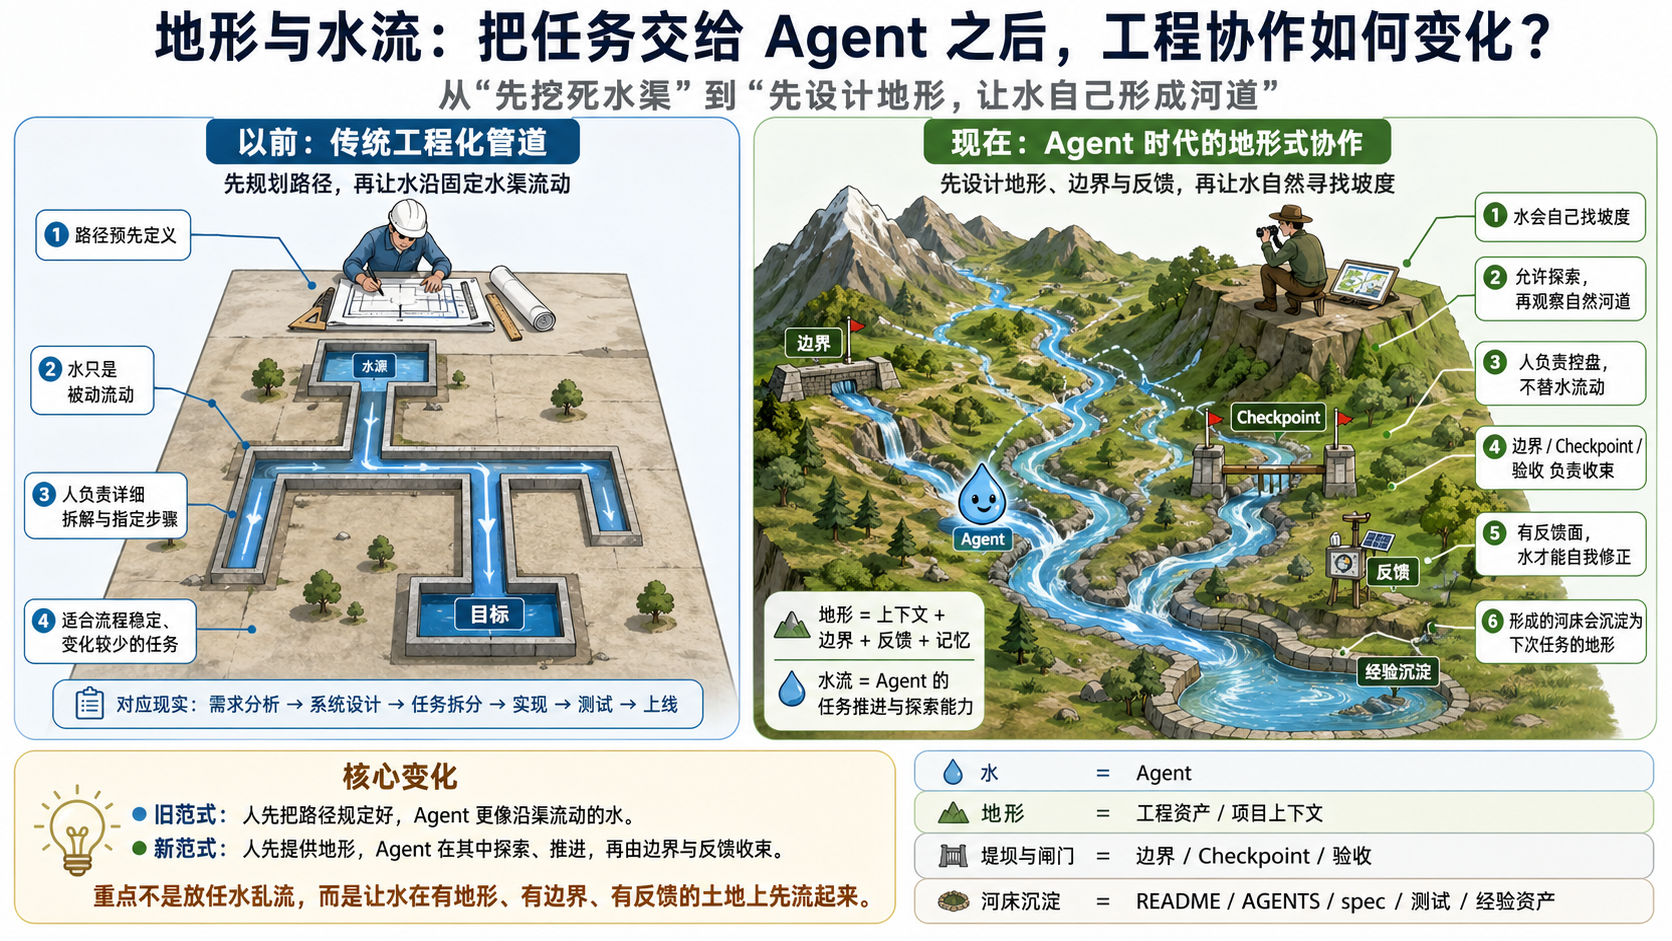
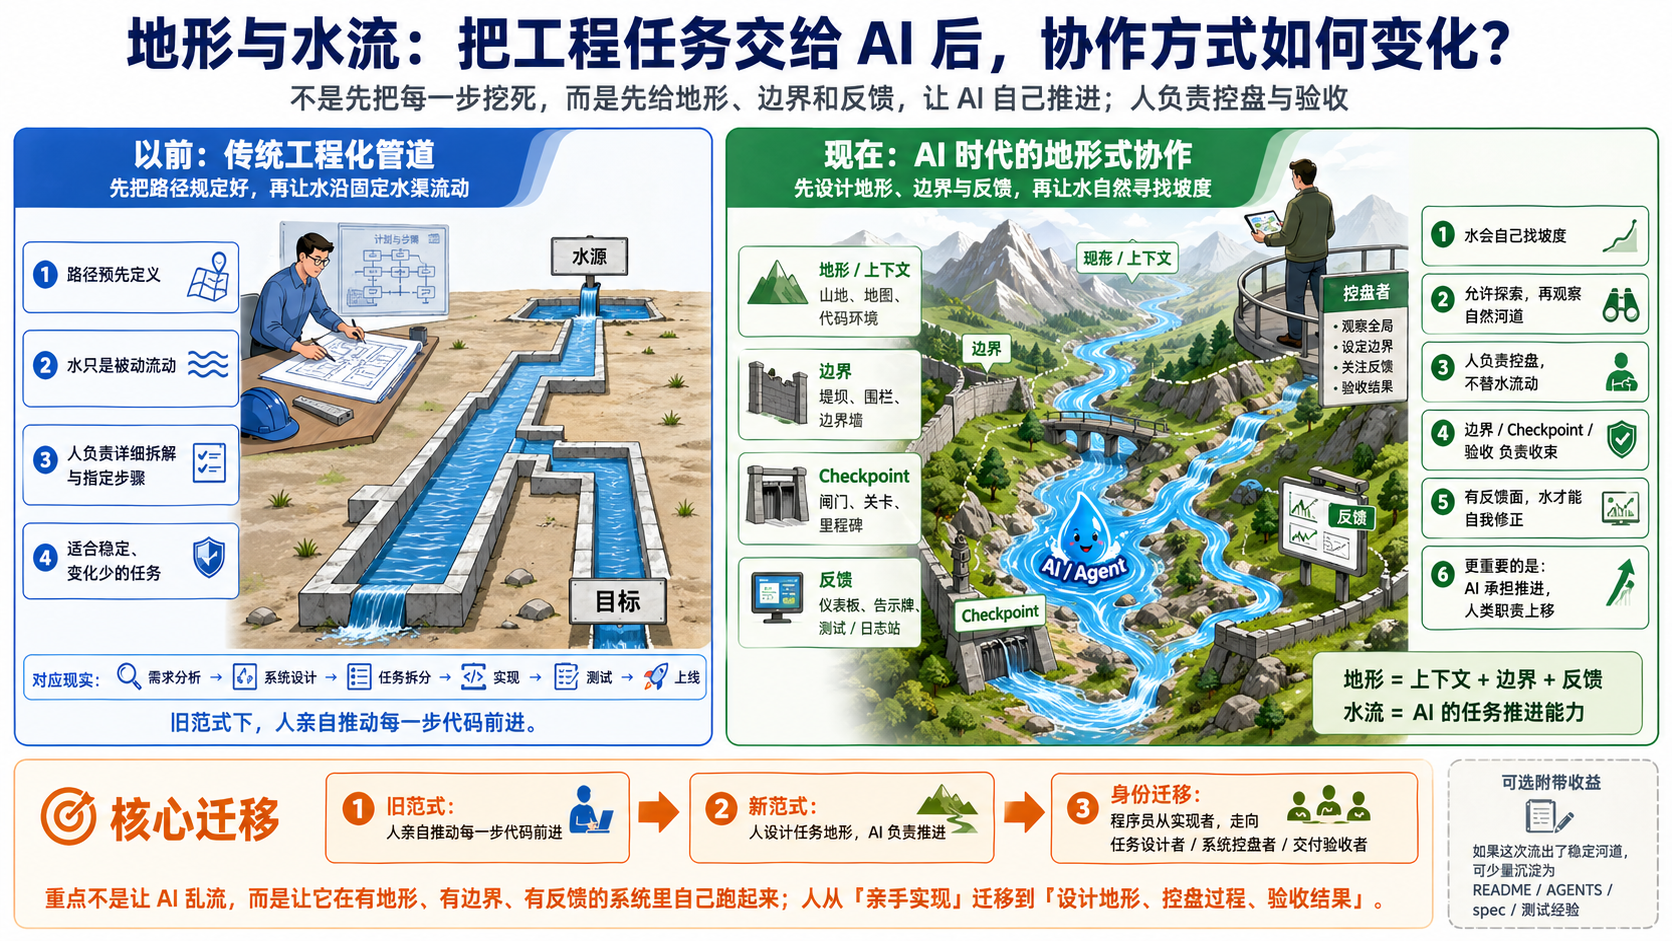
docs: refine agent delegation article focus

diff --git a/docs/把工程任务交给 Agent：大模型时代程序员的身份与能力往哪迁移.md b/docs/把工程任务交给 Agent：大模型时代程序员的身份与能力往哪迁移.md
@@ -4,11 +4,11 @@
 >
 > 我回看过一批自己本地 Codex 的对话日志。日志本身不是重点，重点是它让我看见一个反复出现的模式：真正有效的协作，不是我把每一步都规定好，而是我逐渐把任务推进权交给 Agent，再用地形、checkpoint、反馈和经验沉淀把它接住。
 >
-> 这篇想讲清楚一个很具体的动作：怎样把一个工程任务从“帮我修一下”包装成包含目标、上下文、边界、验收和回收的任务包，然后交给 Agent 自主推进。
+> 这篇想讲清楚一个变化：代码实现可以越来越多地交给 Agent，程序员的核心能力要从连续实现，迁移到任务设计、过程控盘和交付验收。
 >
-> 一句话版本：别只对 Agent 说“帮我修一下”，而是告诉它先读什么、别碰什么、怎么证明修好了、做完要不要回写。
+> 任务包、checkpoint、反馈和经验沉淀，都是为这件事服务的。它们不是最终目标，最终目标是让人能把工程任务交给 Agent，同时仍然守住方向、风险和质量。
 
-![Agent 工程任务包闭环](./assets/agent-task-package-loop.svg)
+![大模型时代，程序员的能力结构在迁移](assets/programmer-role-shift.png)
 
 ## 1. 很多人不是不会用 Agent，而是不敢放权
 
@@ -57,7 +57,7 @@ Agent 负责阅读、拆解、实现、修错、补验证、回写结论。
 
 第三，最省力的时刻，不是模型一次写对，而是它能自己根据测试、日志、diff 继续收敛。这个时候人不用一直盯细节，只要看它有没有拿出可信证据。
 
-第四，产生复利的任务，最后都会留下一点东西：一条规则、一个测试入口、一段 README、一份 spec、一个经验资产。没有这些，下次还是从头解释。
+第四，产生复利的任务，最后往往会留下一点东西：一条规则、一个测试入口、一段 README、一份 spec、一个经验资产。它们不是任务的核心目标，但会让下一次放权更稳。
 
 这些不是多高级的理论，更像是我反复踩出来的使用习惯。写成文章，是希望别人少走一点弯路。
 
@@ -129,8 +129,6 @@ Agent 负责推进。
 旧时代的程序员，核心身份是实现者。
 
 新时代的程序员，核心身份会越来越接近任务设计者、系统控盘者和交付验收人。
-
-![程序员能力结构迁移](./assets/programmer-role-shift.svg)
 
 如果还停留在“AI 帮我写几行代码”的心智里，很容易低估这次变化。真正发生的不是工具增强，而是交付结构变化。
 
@@ -222,6 +220,8 @@ Prompt 解决的是“这一次模型怎么理解”。
 ## 6. 怎样把一个任务交付给 Agent
 
 如果要让别人真的学会，不能只讲“放权”，还要把放权拆成可执行动作。
+
+![从“帮我修一下”到 Agent 可自主推进的任务包](assets/agent-task-package.png)
 
 我通常会把一个工程任务包装成五件东西：
 
@@ -403,13 +403,13 @@ Agent 工程必须有 feedback surface。
 
 一个反馈面足够清楚的 Agent，才可能承担更多任务推进责任。
 
-## 10. 放权之后，系统要能替人承接一部分介入
+## 10. 协作房间和经验资产，只是为了让放权更稳
 
 人类减少高频介入，不是靠忍住不说话。
 
 如果系统没有承接能力，人不介入只会变成失控。
 
-我做的几个项目，本质上都在补“放权之后的承接层”。
+我做的几个项目，本质上都在补“放权之后的承接层”。它们不是这篇文章的核心目标，核心目标仍然是：把工程任务交给 Agent，让人从连续实现线程里抽出来，转向任务设计、过程控盘和交付验收。
 
 所谓承接层，就是在人不持续盯着时，系统里要有别的东西帮忙接住任务，比如同伴审查、验证证据、历史经验和可回读的文档。
 
@@ -423,11 +423,11 @@ Agent 工程必须有 feedback surface。
 
 [`agent-experience-capitalization`](https://github.com/huisezhiyin/agent-experience-capitalization) 解决的是经验承接。
 
-Agent 每次任务结束后，不应该只把经验留在聊天记录里。有效的判断、踩过的坑、项目规则、验证方式、反模式，都应该沉淀成项目或团队拥有的工程资产。未来任务开始前，Agent 可以自动召回相关经验，再由当前模型结合上下文判断是否采用。
+Agent 每次任务结束后，不一定都要沉淀资产。小任务做完就结束也很正常。只有当这次任务暴露了稳定规则、常见坑、测试入口、项目约定或反模式时，才值得把它沉淀成项目或团队拥有的工程资产。未来任务开始前，Agent 可以自动召回相关经验，再由当前模型结合上下文判断是否采用。
 
 这件事非常重要。
 
-因为很多人所谓“用 Agent 很累”，本质上是每次都在重复喂同样的背景、同样的规则、同样的坑。Agent 不累，人累。
+很多人所谓“用 Agent 很累”，本质上是每次都在重复喂同样的背景、同样的规则、同样的坑。Agent 不累，人累。
 
 如果经验不能沉淀，放权每次都要从零开始。
 
